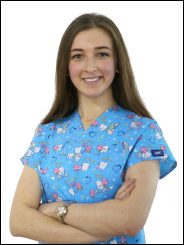
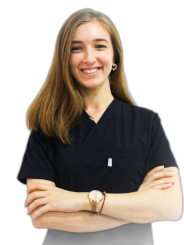
add new dentist images and modify DentistList, DentistCard component

diff --git a/src/components/OurDentists/DentistList.tsx b/src/components/OurDentists/DentistList.tsx
@@ -8,31 +8,25 @@ const DENTISTS = [
     id: 1,
     name: "Dt. Mehmet Ertuğrul Soysal",
     specialist: "Diş Hekimi",
-    imgUrl: "../../../assets/images/dentists/miray-uz.png",
+    imgName: "miray-uz",
   },
   {
     id: 2,
     name: "Doç. Dr. Osman Sami Ağlarcı",
     specialist: "Ortodonti Uzmanı",
-    imgUrl: "../../../assets/images/dentists/miray-uz.png",
+    imgName: "osman-sami",
   },
   {
     id: 3,
     name: "Dt. Miray Uz",
     specialist: "Diş Hekimi",
-    imgUrl: "../../../assets/images/dentists/miray-uz.png",
+    imgName: "miray-uz",
   },
   {
     id: 4,
-    name: "Dt. Mesut Kahraman",
-    specialist: "Diş Hekimi",
-    imgUrl: "../../../assets/images/dentists/miray-uz.png",
-  },
-  {
-    id: 5,
     name: "Dt. Volkan Arıkan",
     specialist: "Çene Cerrahisi",
-    imgUrl: "../../../assets/images/dentists/miray-uz.png",
+    imgName: "volkan-arikan",
   },
 ];
 const DentistList: React.FC = () => {
@@ -42,7 +36,7 @@ const DentistList: React.FC = () => {
         display: "flex",
         justifyContent: "space-around",
         p: 1,
-        m: 1,
+        m: 1
       }}
     >
       {DENTISTS.map((item) => (
@@ -50,7 +44,7 @@ const DentistList: React.FC = () => {
           key={item.id}
           id={item.id}
           name={item.name}
-          imgUrl={item.imgUrl}
+          imageName={item.imgName}
           specialist={item.specialist}
         />
       ))}

diff --git a/src/components/UI/DentistCard/DentistCard.tsx b/src/components/UI/DentistCard/DentistCard.tsx
@@ -9,13 +9,13 @@ export interface DentistCardProps {
   id: number;
   name: string;
   specialist: string;
-  imgUrl: any;
+  imageName: string;
 }
 
 const DentistCard: React.FC<DentistCardProps> = ({
   name,
   specialist,
-  imgUrl,
+  imageName,
 }) => {
   const styles = {
     media: {
@@ -29,13 +29,13 @@ const DentistCard: React.FC<DentistCardProps> = ({
   );
 
   return (
-    <Card sx={{ maxWidth: 205 }} onClick={handleOnClick}>
+    <Card sx={{ width: 205 }} onClick={handleOnClick}>
       <CardMedia
         component="img"
         alt={name}
         height="100"
         style={styles.media}
-        image={require("../../../assets/images/dentists/miray-uz.png")}
+        image={require('../../../assets/images/dentists/' + imageName + '.png')}
       />
       <CardContent>
         <Typography gutterBottom variant="h5" component="div">
